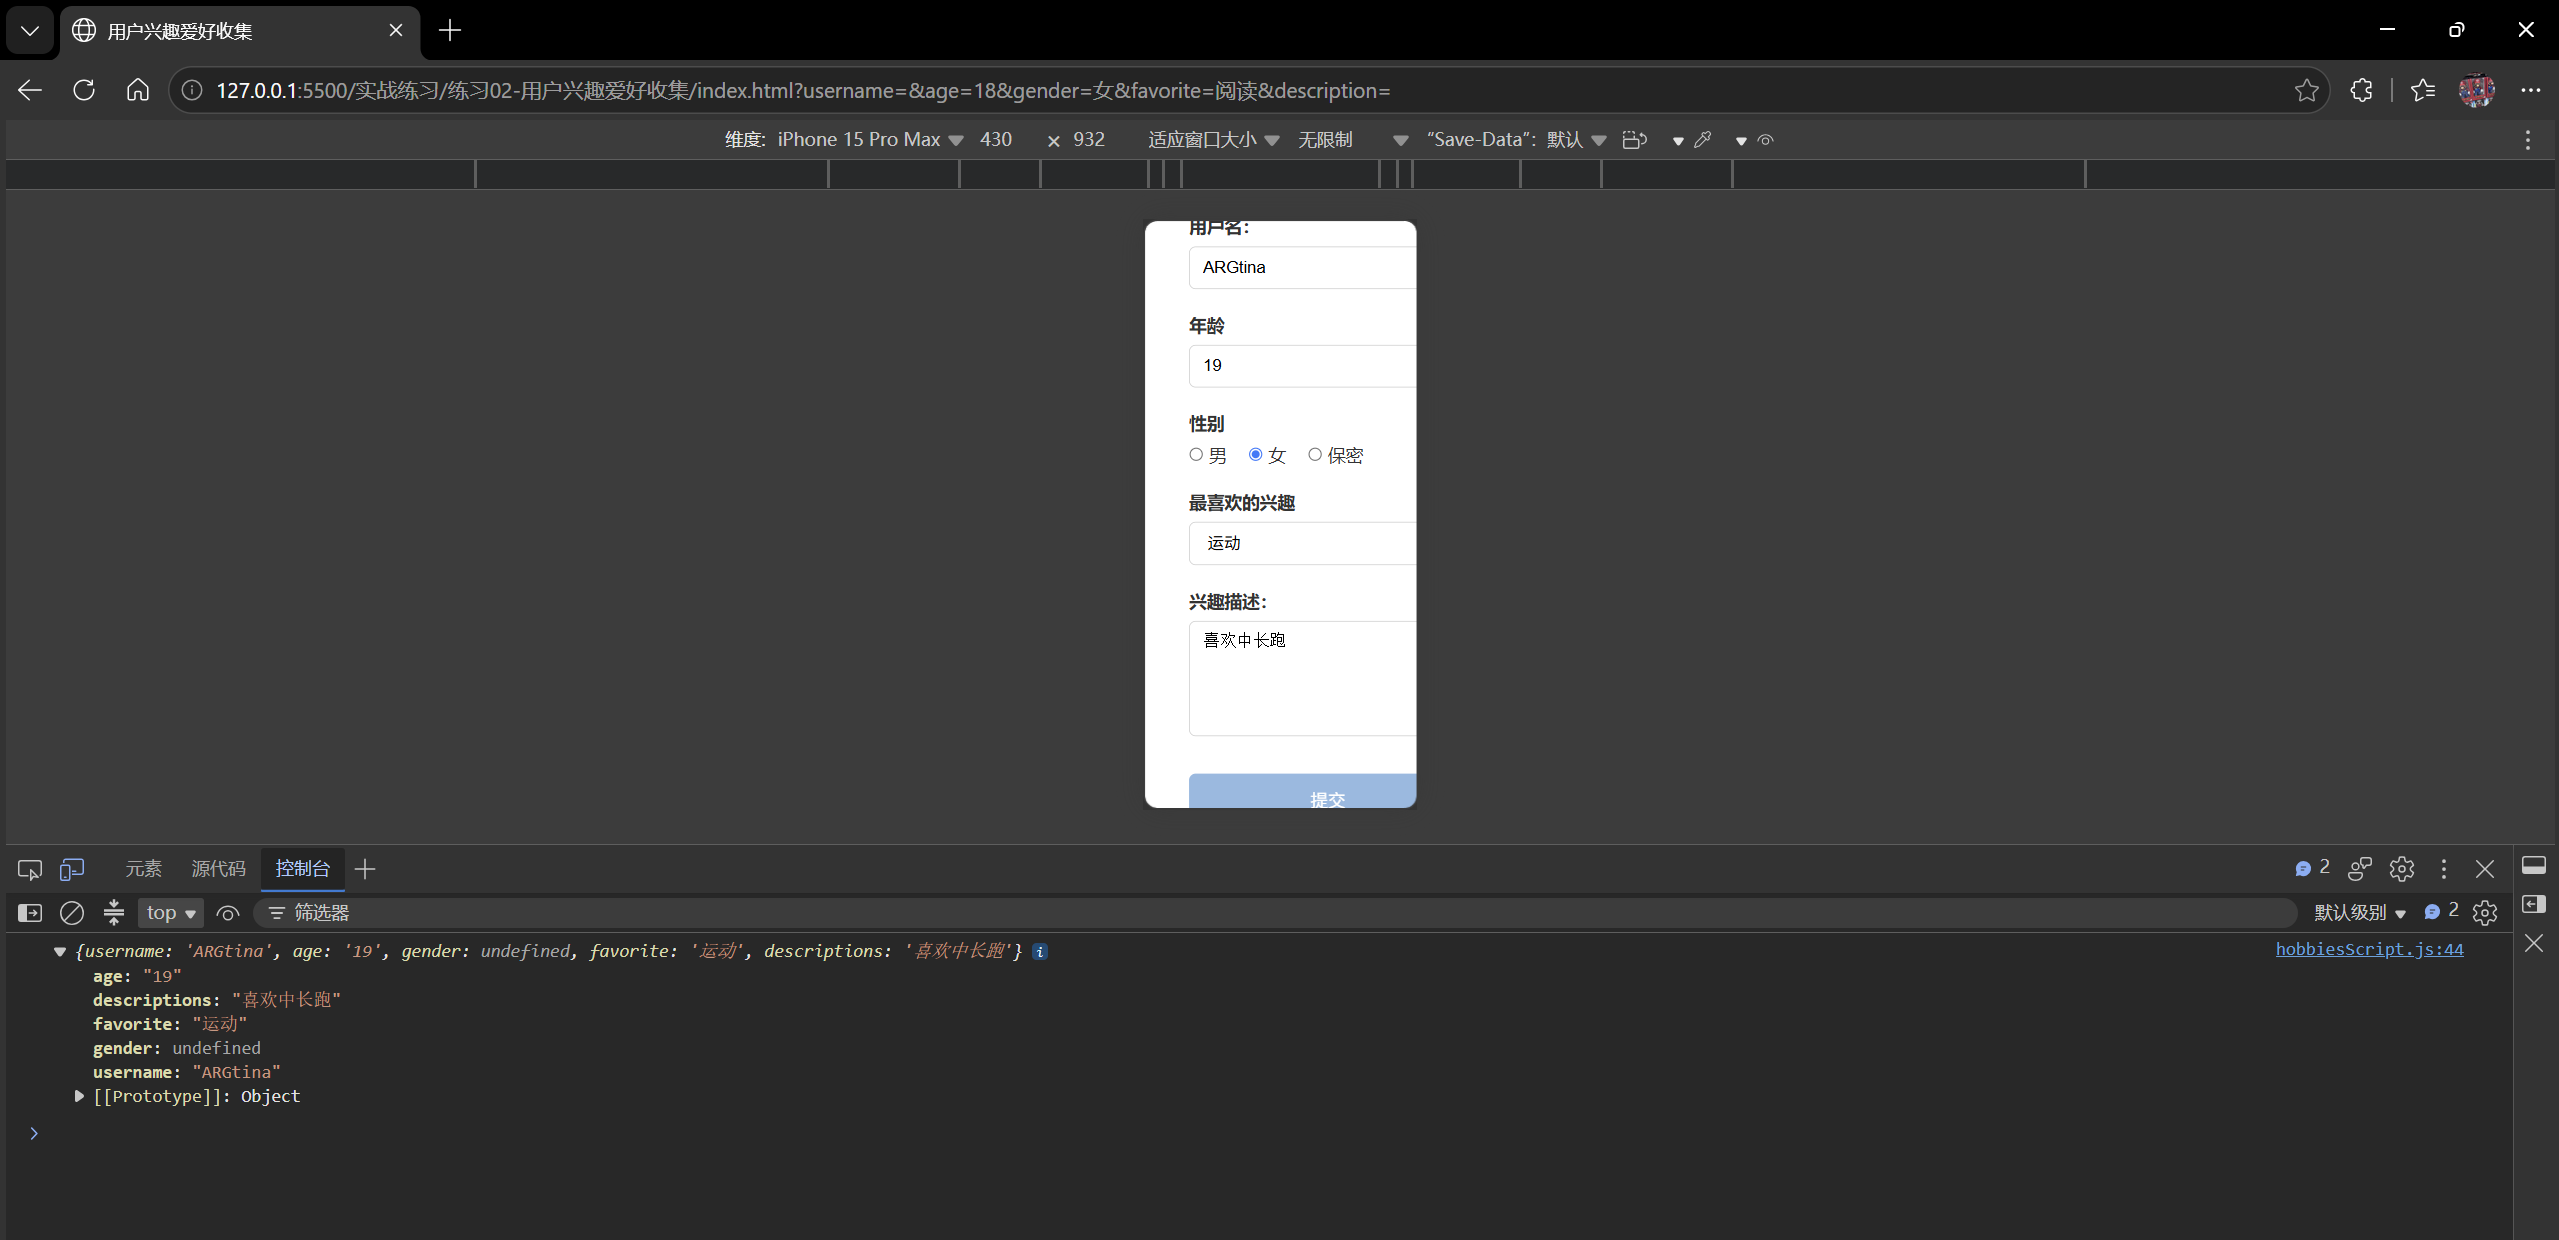
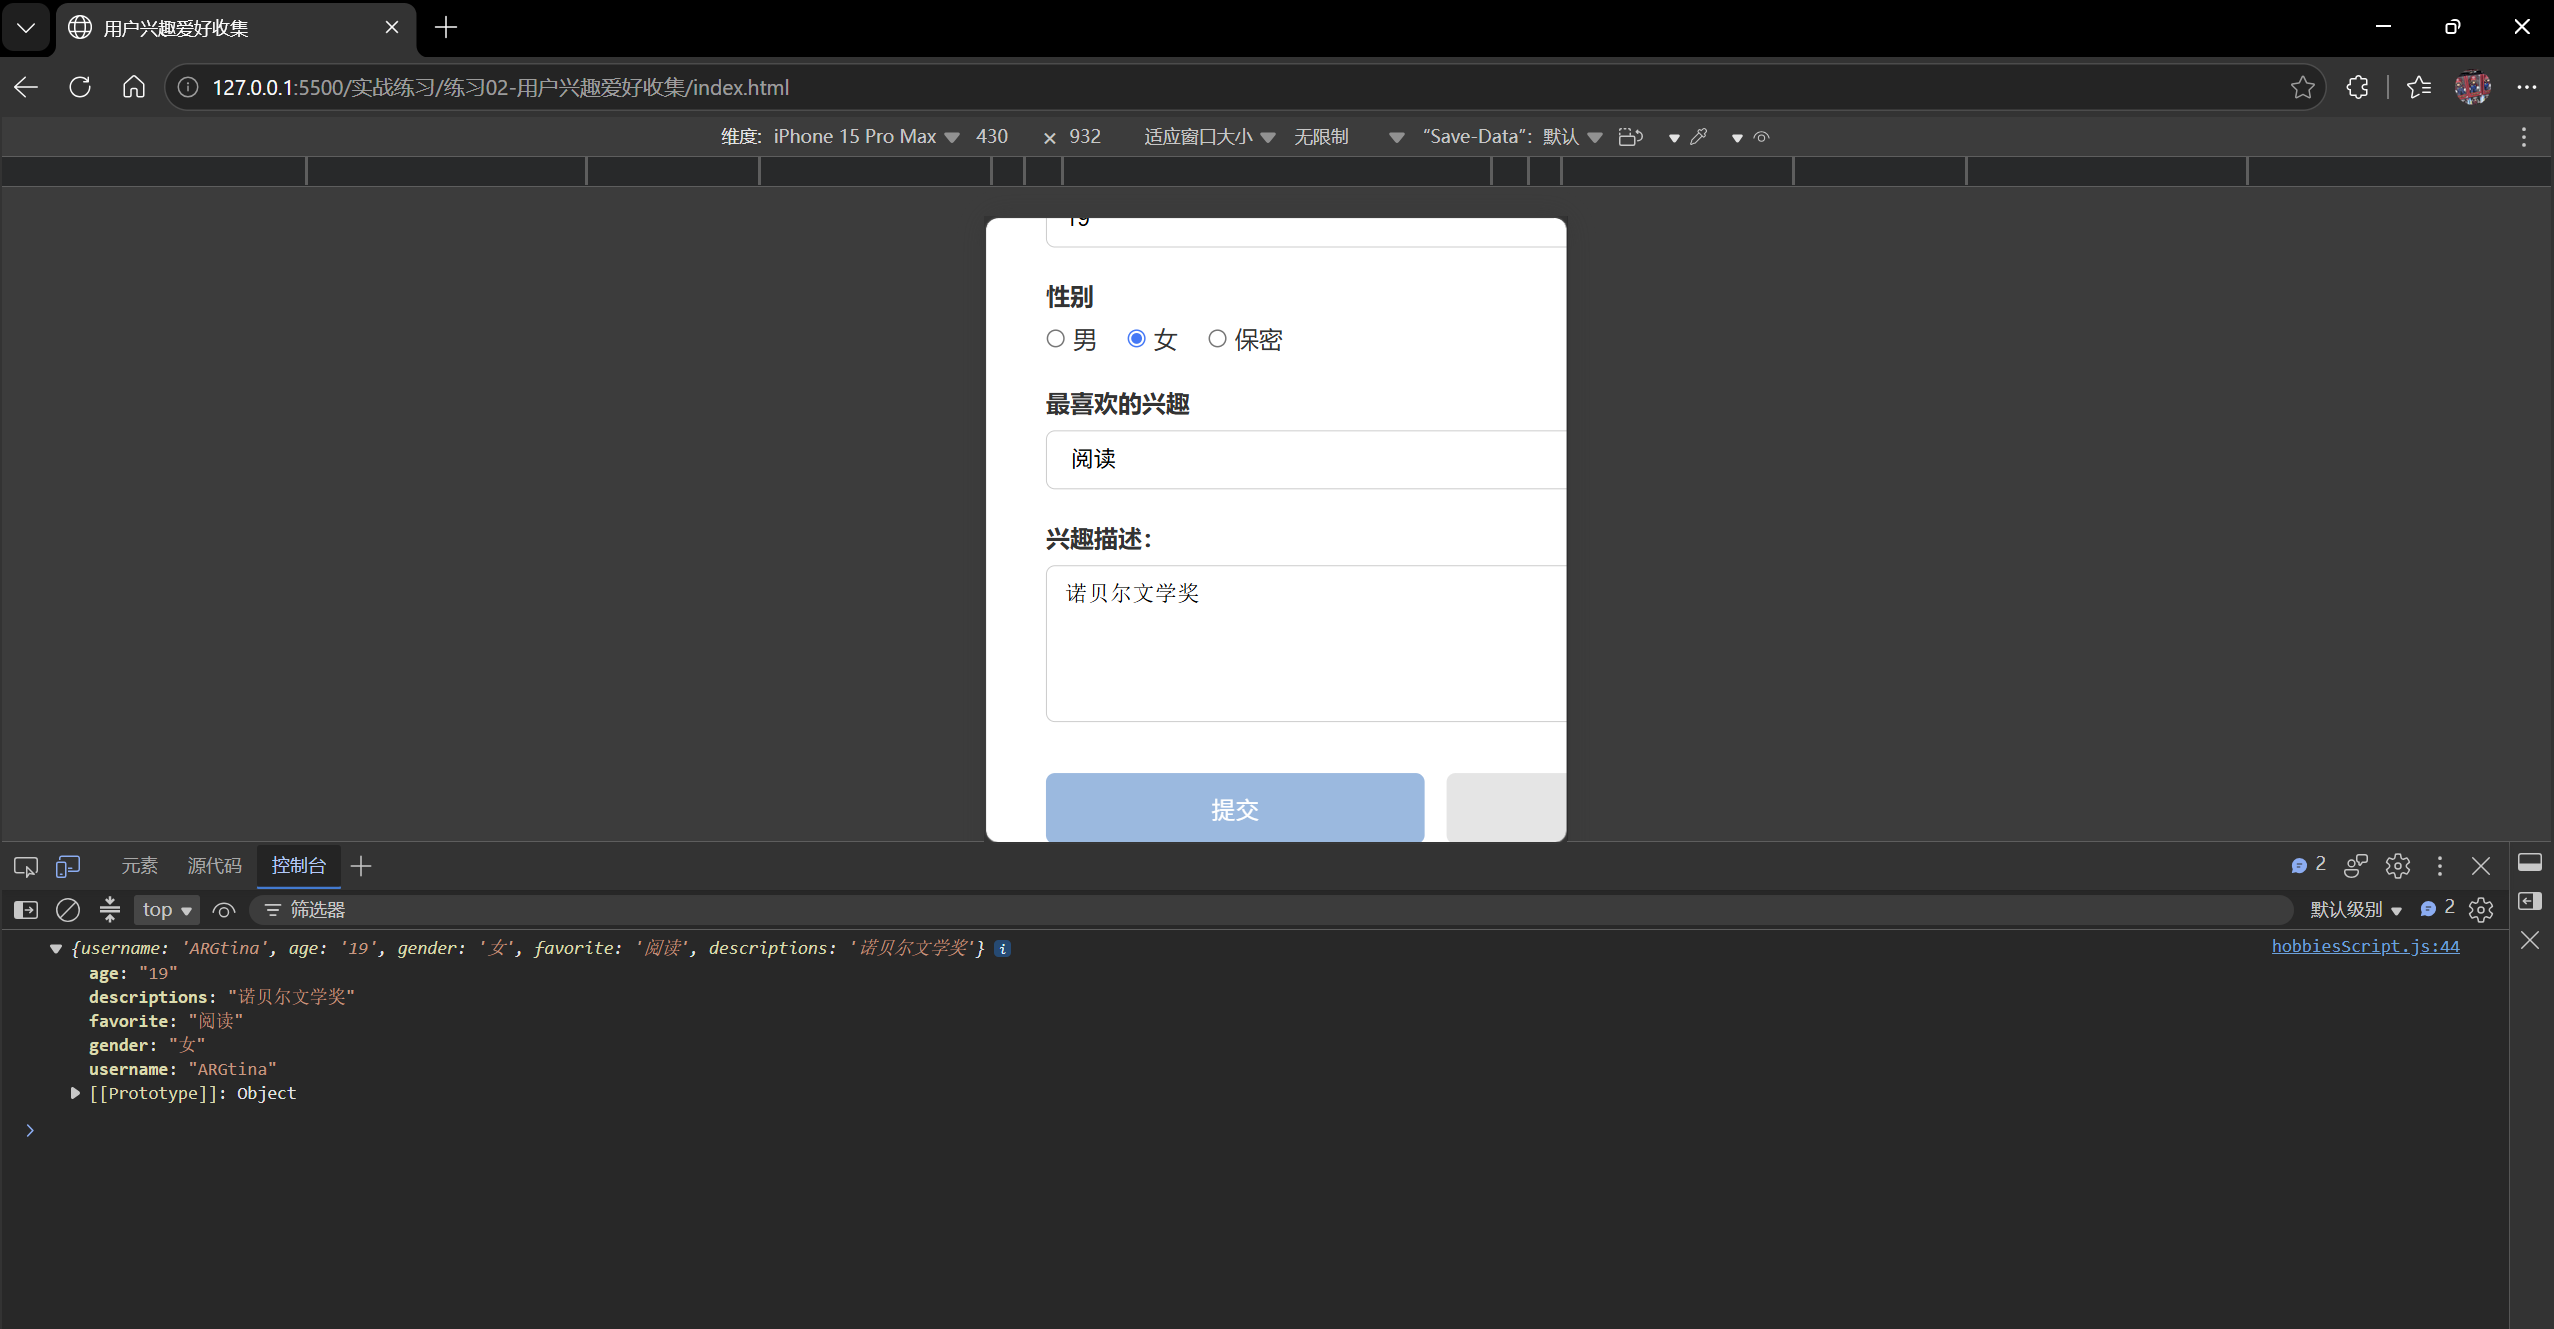
错误修正

diff --git a/实战练习/练习02-用户兴趣爱好收集/hobbiesScript.js b/实战练习/练习02-用户兴趣爱好收集/hobbiesScript.js
@@ -29,7 +29,7 @@ form.addEventListener("submit", e => {
     let genderValue = "";   // 声明一个性别值的变量以便下一步保存性别的值
     //确认性别
     if(gender){
-        genderValue = gender.value;
+        genderValue = gender;
     } 
 
     // 创建用户对象[对象！！！]
